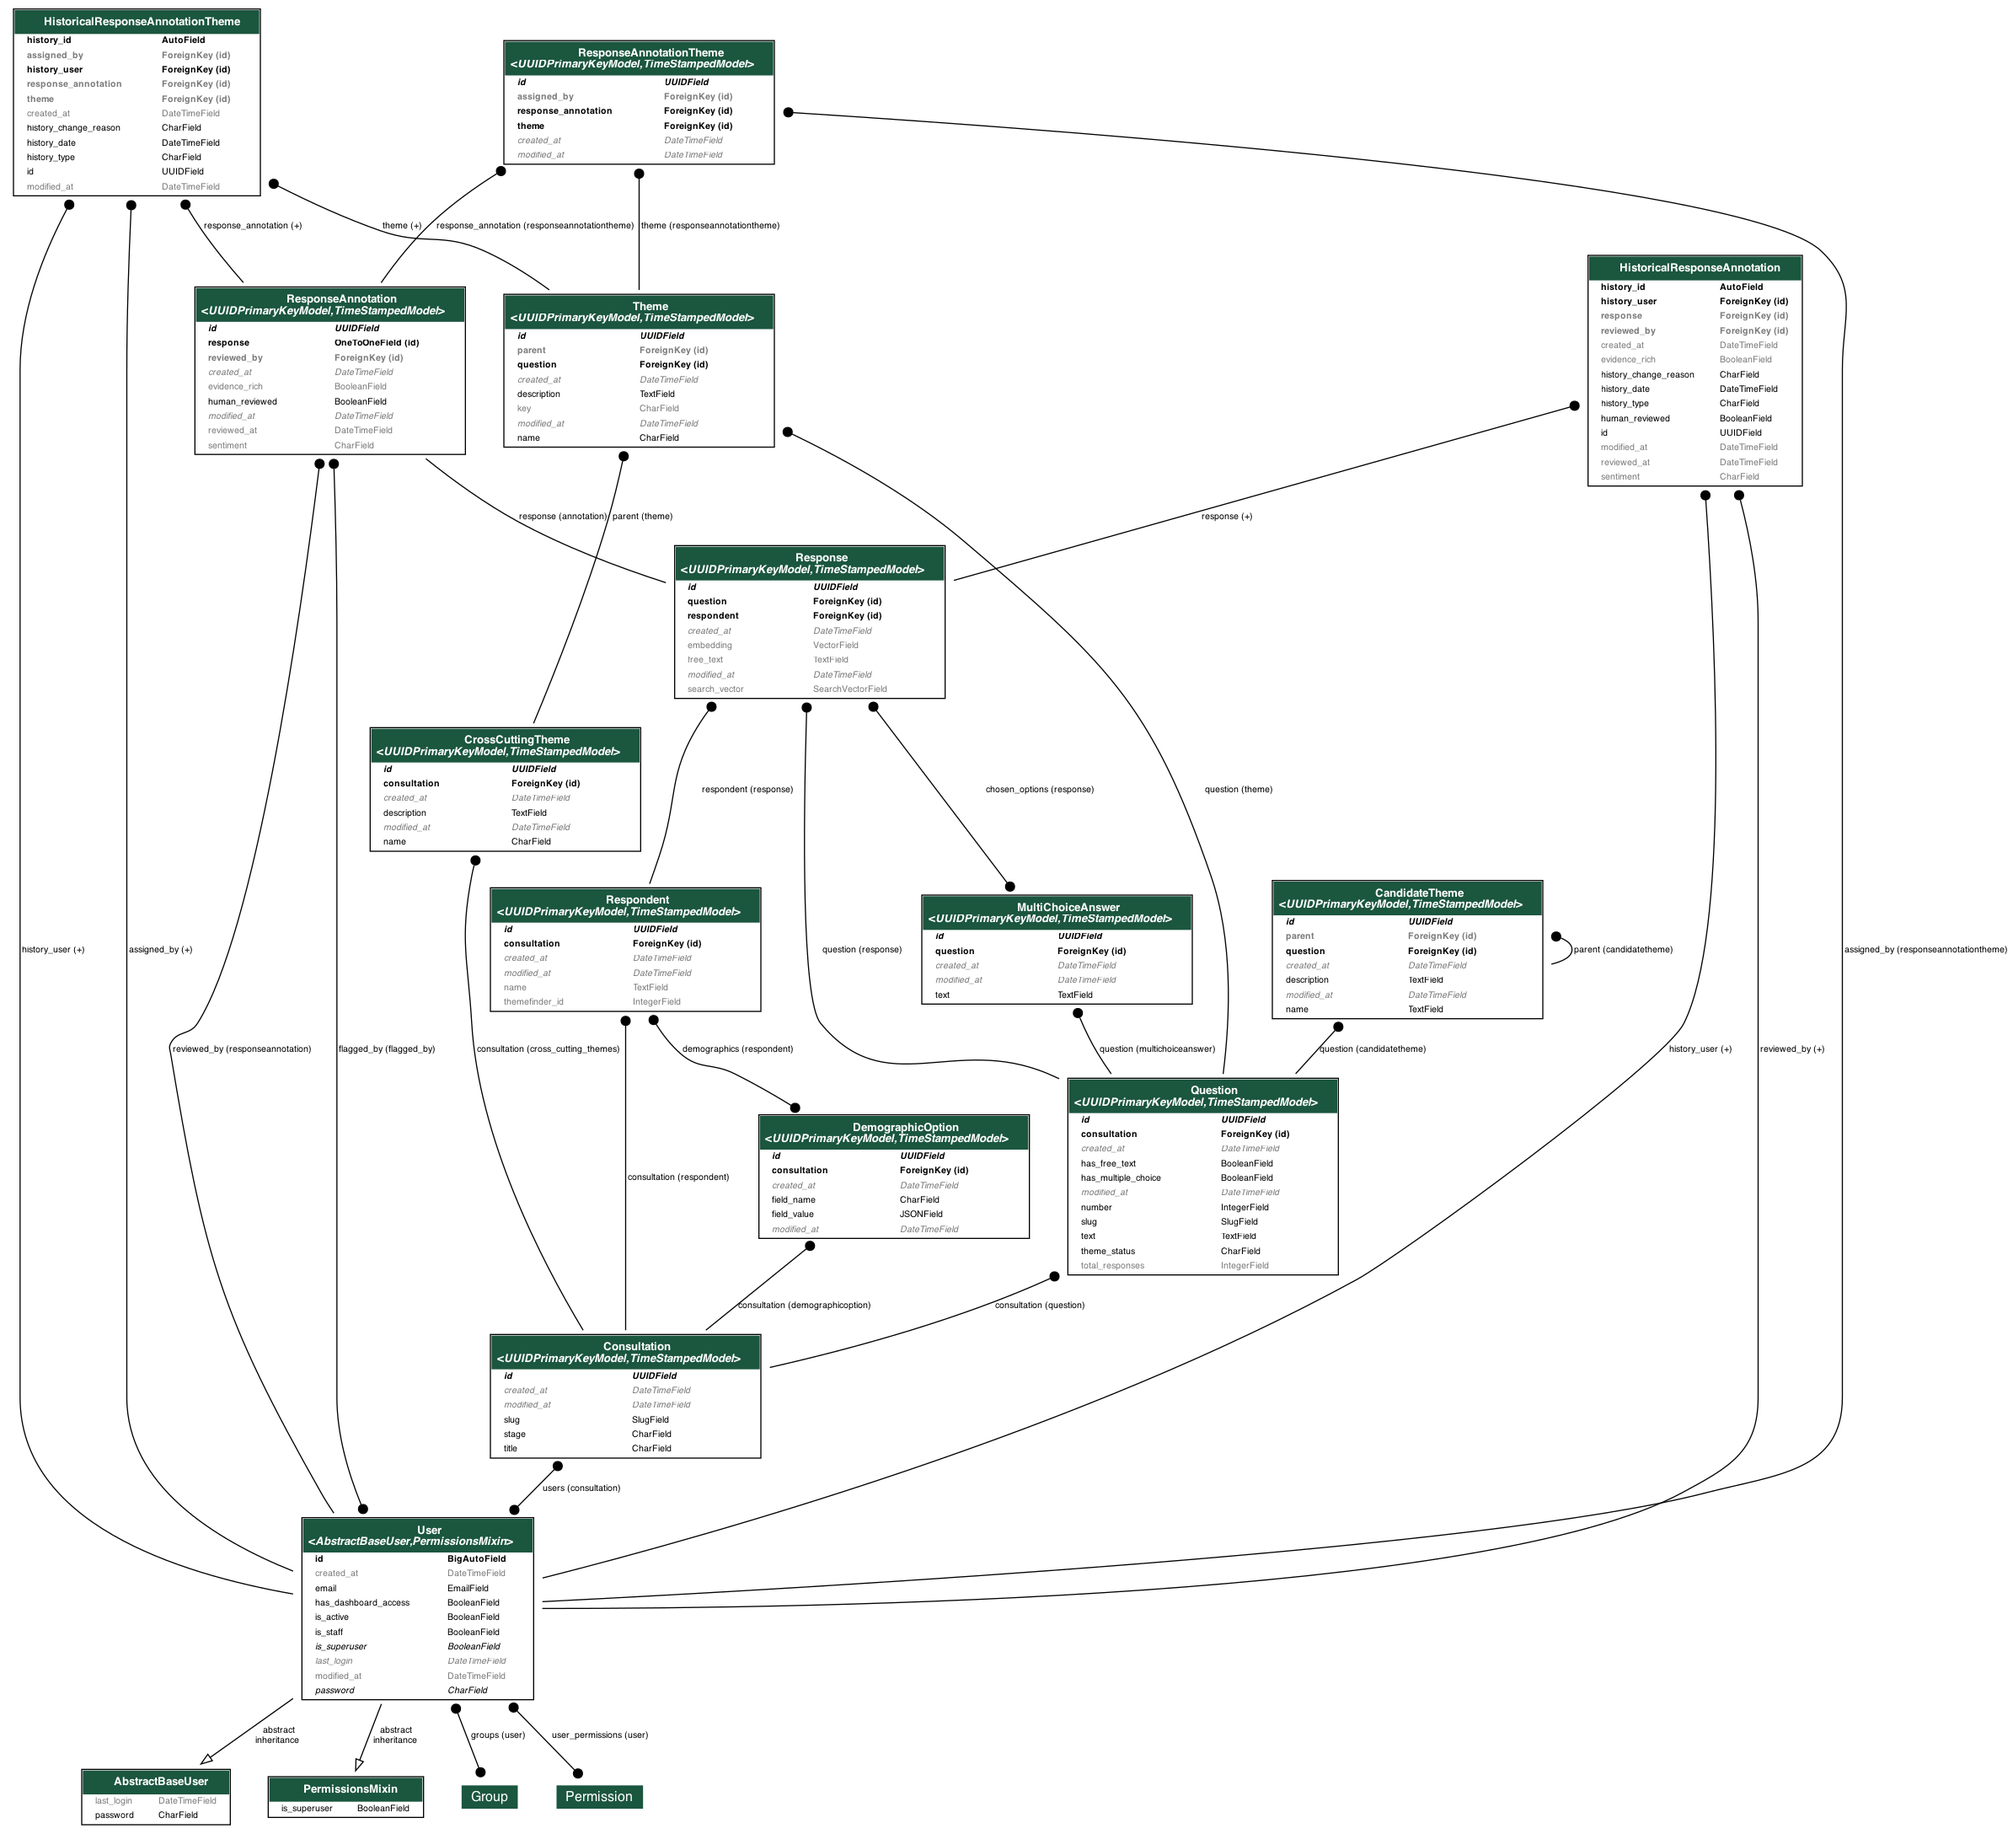
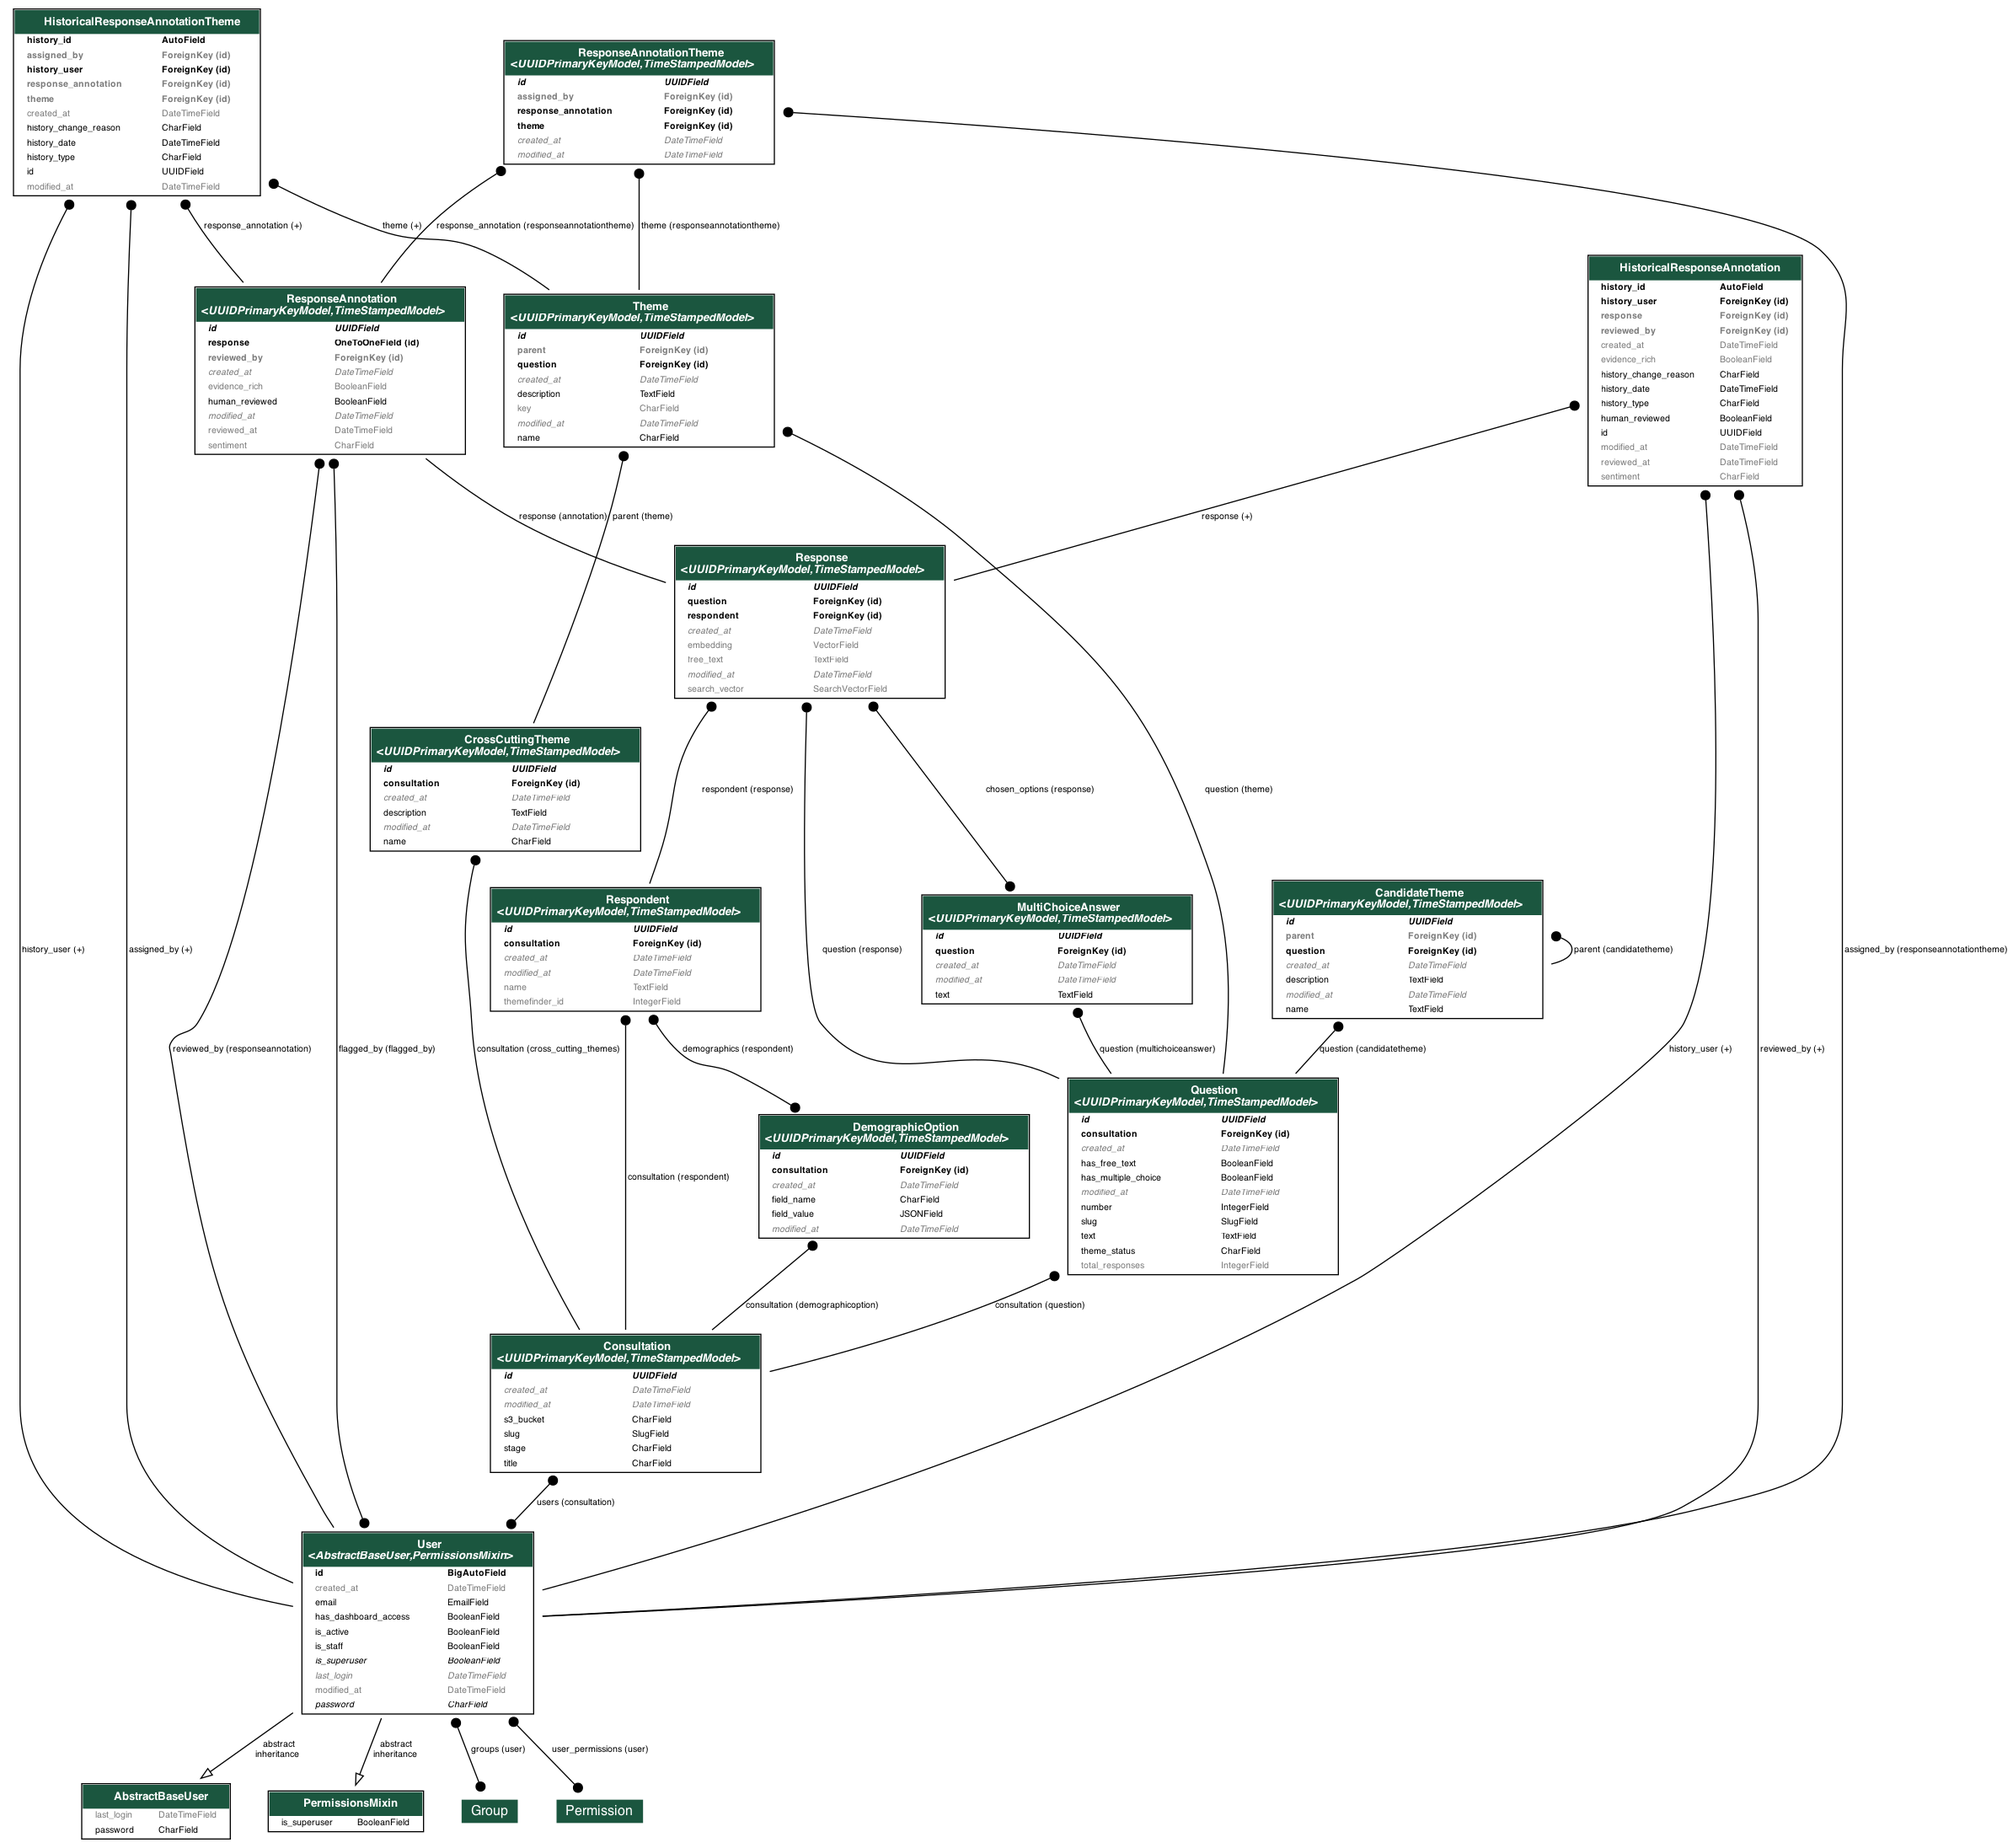
feat: Add `s3_bucket` field to Consultation model
The name of the S3 bucket where inputs and outputs of themefinder
is stored.

diff --git a/consultation_analyser/consultations/migrations/0079_consultation_s3_bucket.py b/consultation_analyser/consultations/migrations/0079_consultation_s3_bucket.py
@@ -1,0 +1,17 @@
+# Generated by Django 5.2.6 on 2025-10-09 09:42
+
+from django.db import migrations, models
+
+
+class Migration(migrations.Migration):
+    dependencies = [
+        ("consultations", "0078_question_theme_status"),
+    ]
+
+    operations = [
+        migrations.AddField(
+            model_name="consultation",
+            name="s3_bucket",
+            field=models.CharField(max_length=256, null=True),
+        ),
+    ]

diff --git a/consultation_analyser/consultations/models.py b/consultation_analyser/consultations/models.py
@@ -52,6 +52,7 @@ class Consultation(UUIDPrimaryKeyModel, TimeStampedModel):
         choices=ConsultationStage.choices,
         default=ConsultationStage.ANALYSIS,
     )
+    s3_bucket = models.CharField(max_length=256, null=True)
 
     def save(self, *args, **kwargs):
         if not self.slug:
